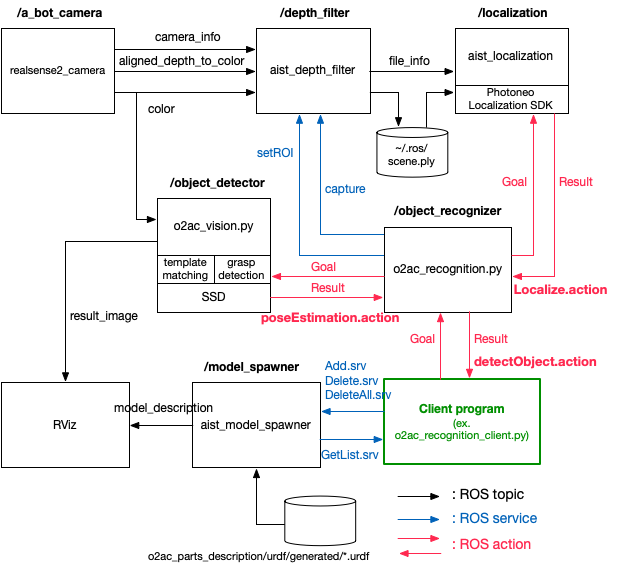
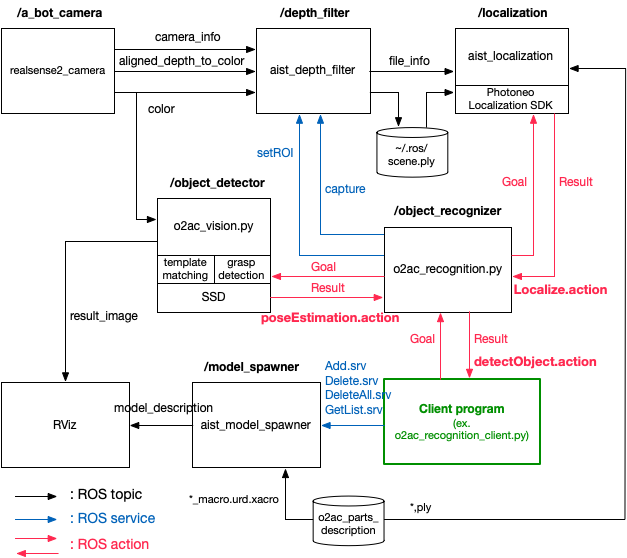
Update documentation

diff --git a/catkin_ws/src/o2ac_vision/README.md b/catkin_ws/src/o2ac_vision/README.md
@@ -86,10 +86,16 @@ geometry_msgs/PoseWithCovarianceStamped[] detected_poses_with_covariance
 ---
 # Feedback 
 ```
-The client requests the `object_recognizer` to find objects specified in the `item_id` field of the action goal. Currently, `item_id` should be a mesh file name excluding its suffix defined in `o2ac_parts_description/meshes`, ex. 01-Base, 04_37D-GEARMOTOR-50-70, 08_KZAF1075NA4WA55GA20AA0, etc.
+The client requests the `/object_recognizer` to find objects specified in the `item_id` field of the action goal. Currently, `item_id` should be a mesh file name excluding its suffix defined in `o2ac_parts_description/meshes`, ex. 01-Base, 04_37D-GEARMOTOR-50-70, 08_KZAF1075NA4WA55GA20AA0, etc.
 
 The pipeline works in the following manner;
 
-1. When the ID of object to be recognized is given by the goal of `o2ac_msgs.detectObjectAction` type, the `/object_recognizer` sends a goal of `o2ac_msgs.poseEstimationAction` type to the `/object_detector`.
-2. The `/object_detector` searches for the all known objects in a input color image by applying SSD, and then returns part ID and a bounding box for each object found to the `/object_recognizer`.
-3. For small parts, the `/object_detector` also applies template matching which determines 2D position and orientation of the parts within the bounding box.
+1. When the ID of object to be recognized is given in the goal of `o2ac_msgs.detectObjectAction` type, the `/object_recognizer` sends a goal of `o2ac_msgs.poseEstimationAction` type to the `/object_detector`.
+2. The `/object_detector` searches for the all known objects in a input color image by applying SSD, and then returns part ID and a bounding box to the `/object_recognizer` for each object found.
+3. For each of small parts, the `/object_detector` also applies template matching which determines its 2D position and orientation of within the bounding box. They are returned to the `/object_recognizer` together with SSD results.
+4. For the round belt, the `/object_detector` finds grasp points by applying the FGE(Fast Graspability Estimation) detector. The grasp points are represented by its 2D position and orientation of the two-finger gripper's motion axis. Multiple grasp points may be found from a single belt in general. They are returned to the `/object_recognizer` together with SSD results.
+5. After receiving part ID and the bounding box, the `/object_recognizer` commands the `/depth_filter` to create a point cloud within a subregion corresponding to the bounding box. The created point cloud is stored in `~/.ros/scene.ply` in the Stanford PLY format.
+6. For general parts neither small nor belts, the `/localization` node restores the PLY file and performs 3D matching with the meshes stored in `o2ac_parts_description`. If the matching process succeeds, the 3D position and orientation of the part as well as confidence values are returned in the result of `o2ac_msgs.detectObjectAction` type. If multiple candidate poses are found, they are stored with the descending order of confidence values.
+7. For small parts and belts, the `/localization` node converts their 2D positions and orientations to 3D poses under an assumption that the objects lie on a "dominant plane". The "dominant plane" is detected from the entire depth image by the `/depth_filter` with robust plane fitting using RANSAC. The detected plane is published in the message of `aist_depth_filter.FileInfo` type and subscribed by the `/localization` node.
+
+The sample client program `o2ac_vision/scripts/o2ac_recognition_client.py` gives an example showing how to use the recognition pipeline from users' application programs. The sample also provides a means for visualizing 3D localization results using `aist_model_spawner`.

diff --git a/catkin_ws/src/aist_modules/aist_depth_filter/README.md b/catkin_ws/src/aist_modules/aist_depth_filter/README.md
@@ -3,8 +3,6 @@ aist_depth_filter: ROS node for filtering depth images
 
 This package provides a ROS node applying a series of filters to the input depth images, a python client class for utilizing functions of the node and some launch files.
 
-# aist_depth_filter server
-
 ## Available filters
 
 The node applies the filtering process to the input depth images in the following order;
@@ -29,6 +27,10 @@ Compute surface normals from depth images.This is done by fitting a plane to the
 
 Multiply a constant value specified by the parameter `~scale` to the input depths. This function is intended to be used for transforming the unit of distance or compensating errors in the depth scale of the 3D camera.
 
+## Detecting a dominant plane
+
+The filter server also detects a dominant plane from the entire depth image. It is assumed that the dominant plane corresponds to relatively dark regions in intensity/color images. The algorithm first extracts dark pixels by Otsu's binarization method with an automatic selection of threshold values. Then a plane is fitted to the 3D points corresponding to the extracted dark pixels with RANSAC technique. This function is available only if a positive value is given to the parameter `~thresh_plane`.
+
 ## ROS services
 
 - **~/saveBG** -- Save the original depth image with no filteres applied to `~/.ros/.tif`. This file is used as the backgroud in processing the subsequent input images.
@@ -45,6 +47,7 @@ The following parameters can be specified not only in the command line at starin
 - **~subscribe_normal** -- If true, subscribe images of surface normals
 - **~window_radius** -- Specify radius *r* of the square window for computing surface normals from depths when `~subscribe_normal` is false. If zero, no surface normals are computed.
 - **~scale** -- Scaling factor for depth topic
+- **~thresh_plane** -- Threshold value for RANSAC in dominant plane detection (in meters). If zero, no detections will be made.
 
 ## Subscribed ROS topics
 
@@ -60,8 +63,22 @@ The following parameters can be specified not only in the command line at starin
 - **~/depth** -- Filtered depth images cropped with ROI
 - **~/normal** -- Images with surface normals cropped with ROI
 - **~/colored_normal** -- RGB images encoding surface normals cropped with ROI
-- **~/file_info** -- File path of PLY file saved via the service `~/savePly` and corresponding frame id of the input depth image
+- **~/file_info** -- File path of PLY file saved via the service `~/savePly` and corresponding camera_info of the depth image according to the current ROI. The normal and distance of the dominant plane are also included if detected.
 
 
-# aist_depth_filter client
+## Filter client
 
+The package also provides a simple client class `aist_depth_filter.DepthFilterClient` for easing development of applications with python. Please refer to [aist_depth_filter/src/aist_depth_filter/__init__.py](file:///./src/aist_depth_filter/__init__.py).
+
+
+## Testing
+
+The results of filtering image streams from live cameras can be displayed in RViz with the following command
+```bash
+$ roslaunch aist_depth_filter phoxi.launch
+```
+for PhoXi cameras and
+```bash
+$ roslaunch aist_depth_filter realsense.launch
+```
+for RealSense cameras. The filter parameters can be adjusted interactively through `rqt_reconfigure`.

diff --git a/catkin_ws/src/aist_modules/aist_localization/README.md b/catkin_ws/src/aist_modules/aist_localization/README.md
@@ -1,0 +1,34 @@
+aist_localization: ROS node for matching 3D CAD models with depth images
+==================================================
+
+This package provides a ROS node which matches 3D CAD models to the input depth images, a python client class for utilizing functions of the node and some launch files.
+
+## aist_localization server
+
+The node is a ROS wrapper for the [Photoneo Localization SDK](https://www.photoneo.com/products/photoneo-3d-localization-c-sdk/). Since the SDK only accepts outputs from Photoneo PhoXi cameras or point cloud files stored in Stanford PLY format as input 3D data, the node is designed to be used in conjunction with `aist_depth_fitler` which creates point clouds from input depth images and saves in PLY files.
+
+## 3D CAD models
+
+The 3D CAD models need to be given in Stanford PLY format. This is due to the requirement incurred by the [Photoneo Localization SDK](https://www.photoneo.com/products/photoneo-3d-localization-c-sdk/). The path to the directory containing models is given by the parameter `~ply_dir` whose default value is `o2ac_parts_description/meshes`.
+
+## Subscribed ROS topics
+
+The localization server subscribes **/file_info** which contains a path of PLY file saved by the `aist_depth_filter` as well as an equation of the dominant plane. The normal and distance of the dominant plane are also included if detected.
+
+
+# aist_localization client
+
+The package also provides a simple client class `aist_localization_filter.LocalizationClient` for easing development of applications with python. Please refer to `aist_localization/src/aist_localization/__init__.py`.
+
+
+# Testing
+
+The results of localization from live camera images can be displayed in RViz with the following command
+```bash
+$ roslaunch aist_localization phoxi.launch
+```
+for PhoXi cameras and
+```bash
+$ roslaunch aist_localization realsense.launch
+```
+for RealSense cameras. The localization parameters can be adjusted interactively through `rqt_reconfigure`.
